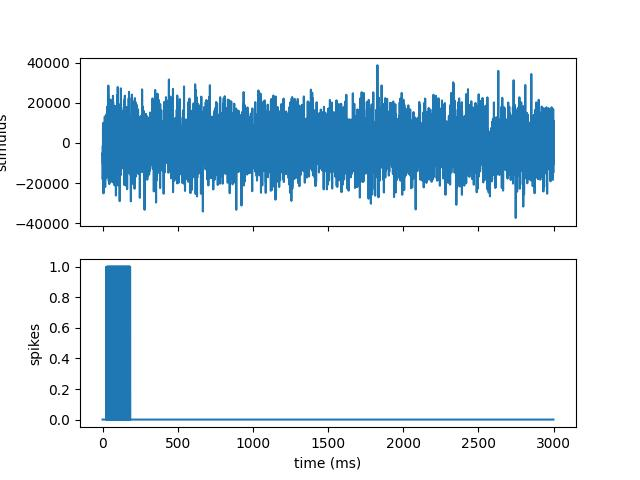
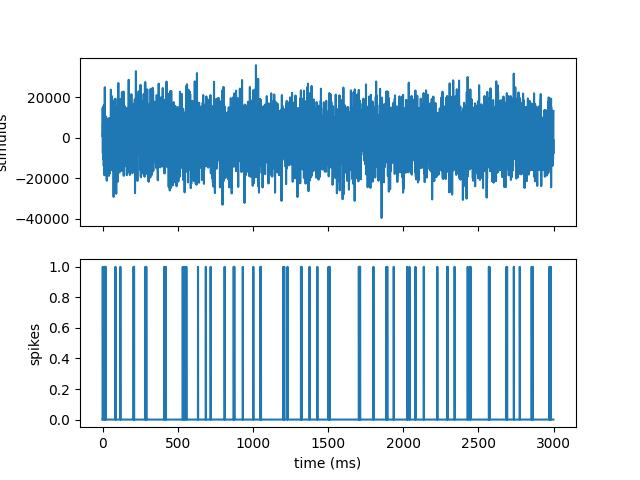
Analysis complete

diff --git a/core/utils_plotting.py b/core/utils_plotting.py
@@ -56,61 +56,57 @@ def plot_params(neurons: List[LIF]):
     Arguments:
     - neurons: List[LIF]
     """
-    fig, axs = plt.subplots(2,3,sharex=False)
+    fig, axs = plt.subplots(3,3,sharex=False)
 
     plt.tight_layout()
 
-    # axs[0, 0].hist([n.c_m for n in neurons], alpha=0.7)
-    # axs[0, 0].set_xlim([10,500])
-    # axs[0, 0].set_title('capacitance')
+    axs[0, 0].hist([n.c_m for n in neurons], alpha=0.7)
+    axs[0, 0].set_xlim([50,500])
+    axs[0, 0].set_title('capacitance')
 
-    # axs[0, 2].hist([n.g_l for n in neurons], alpha=0.7)
-    # axs[0, 2].set_xlim([1,100])
-    # axs[0, 2].set_title('conductance')
+    axs[0, 2].hist([n.g_l for n in neurons], alpha=0.7)
+    axs[0, 2].set_xlim([1,20])
+    axs[0, 2].set_title('conductance')
 
-    # axs[0, 0].hist([n.c_m for n in neurons], alpha=0.7)
-    # axs[0, 0].set_xlim([10,500])
-    # axs[0, 0].set_title('capacitance')
+    axs[0, 1].remove()
 
-    # axs[0, 2].hist([n.g_l for n in neurons], alpha=0.7)
-    # axs[0, 2].set_xlim([1,100])
-    # axs[0, 2].set_title('conductance')
+    axs[1, 0].hist([n.v_l for n in neurons], alpha=0.7)
+    axs[1, 0].set_xlim([-100,-75])
+    axs[1, 0].set_title('rest voltage')
 
-    # axs[0, 1].remove()
+    axs[1,1].remove()
 
-    # axs[1, 0].hist([n.v_l for n in neurons], alpha=0.7)
-    # axs[1, 0].set_xlim([-100,-75])
-    # axs[1, 0].set_title('rest voltage')
+    axs[1, 2].hist([n.v_th for n in neurons], alpha=0.7)
+    axs[1, 2].set_xlim([-75,20])
+    axs[1, 2].set_title('threshold')
 
-    # axs[1,1].remove()
+    axs[2, 0].hist([n.k_j[0] for n in neurons], alpha=0.7)
+    axs[2, 0].hist([n.k_j[1] for n in neurons], alpha=0.7)
+    axs[2, 0].set_xlim([1e-9, 1])
+    axs[2, 0].set_title('k_j')
 
-    # axs[1, 2].hist([n.v_th for n in neurons], alpha=0.7)
-    # axs[1, 2].set_xlim([-100,50])
-    # axs[1, 2].set_title('threshold')
+    axs[2, 1].hist([n.f_j[0] for n in neurons], alpha=0.7)
+    axs[2, 1].hist([n.f_j[1] for n in neurons], alpha=0.7)
+    axs[2, 1].set_xlim([-200, 200])
+    axs[2, 1].set_title('f_j')
 
-    axs[1, 0].hist([n.k_j[0] for n in neurons], alpha=0.7)
-    axs[1, 0].hist([n.k_j[1] for n in neurons], alpha=0.7)
-    axs[1, 0].set_xlim([1e-9, 1])
-    axs[1, 0].set_title('k_j')
-
-    axs[1, 1].hist([n.f_j[0] for n in neurons], alpha=0.7)
-    axs[1, 1].hist([n.f_j[1] for n in neurons], alpha=0.7)
-    axs[1, 1].set_xlim([-200, 200])
-    axs[1, 1].set_title('f_j')
-
-    axs[1, 2].hist([n.b_j[0] for n in neurons], alpha=0.7)
-    axs[1, 2].hist([n.b_j[1] for n in neurons], alpha=0.7)
-    axs[1, 2].set_xlim([-1,1])
-    axs[1, 2].set_title('b_j')
+    axs[2, 2].hist([n.b_j[0] for n in neurons], alpha=0.7)
+    axs[2, 2].hist([n.b_j[1] for n in neurons], alpha=0.7)
+    axs[2, 2].set_xlim([-1,1])
+    axs[2, 2].set_title('b_j')
 
 def visualize_stc(pca: PCA, dt: float):
+    """Plots the principal components computed by pca."""
     n_components = pca.n_components_
     n_features = pca.n_features_
-    explained_var = pca.explained_variance_
+    explained_var = pca.explained_variance_ratio_
 
     time = np.arange(0.0, n_features * dt, dt)
     for i in range(n_components):
-        plt.plot(time, pca.components_[i, :], label = f"PC{i}: {round(explained_var[i],2)}")
+        plt.plot(time, pca.components_[i, :], label = f"PC{i}: {round(explained_var[i],4)}")
+    plt.legend()
+    plt.ylabel('spikes')
+    plt.xlabel('time (ms)')
 
 def visualize_paramvar(neurons: List[LIF], projections):
     """
@@ -120,53 +116,53 @@ def visualize_paramvar(neurons: List[LIF], projections):
     - neurons: List[LIF]
     - projections
     """
-    fig, axs = plt.subplots(2,3,sharex=False)
+    fig, axs = plt.subplots(3,3,sharex=False)
 
     plt.tight_layout()
 
-    # axs[0, 0].scatter([n.c_m for n in neurons], projections[:,0])
-    # axs[0, 0].scatter([n.c_m for n in neurons], projections[:,1])
-    # axs[0, 0].scatter([n.c_m for n in neurons], projections[:,2])
-    # axs[0, 0].set_xlim([10,500])
-    # axs[0, 0].set_title('capacitance')
+    axs[0, 0].scatter([n.c_m for n in neurons], projections[:,0])
+    axs[0, 0].scatter([n.c_m for n in neurons], projections[:,1])
+    axs[0, 0].scatter([n.c_m for n in neurons], projections[:,2])
+    axs[0, 0].set_xlim([10,500])
+    axs[0, 0].set_title('capacitance')
 
-    # axs[0, 2].scatter([n.g_l for n in neurons], projections[:,0])
-    # axs[0, 2].scatter([n.g_l for n in neurons], projections[:,1])
-    # axs[0, 2].scatter([n.g_l for n in neurons], projections[:,2])
-    # axs[0, 2].set_xlim([1,100])
-    # axs[0, 2].set_title('conductance')
+    axs[0, 2].scatter([n.g_l for n in neurons], projections[:,0])
+    axs[0, 2].scatter([n.g_l for n in neurons], projections[:,1])
+    axs[0, 2].scatter([n.g_l for n in neurons], projections[:,2])
+    axs[0, 2].set_xlim([1,100])
+    axs[0, 2].set_title('conductance')
 
-    # axs[0, 1].remove()
+    axs[0, 1].remove()
 
-    # axs[1, 0].scatter([n.v_l for n in neurons], projections[:,0])
-    # axs[1, 0].scatter([n.v_l for n in neurons], projections[:,1])
-    # axs[1, 0].scatter([n.v_l for n in neurons], projections[:,2])
-    # axs[1, 0].set_xlim([-100,-75])
-    # axs[1, 0].set_title('rest voltage')
+    axs[1, 0].scatter([n.v_l for n in neurons], projections[:,0])
+    axs[1, 0].scatter([n.v_l for n in neurons], projections[:,1])
+    axs[1, 0].scatter([n.v_l for n in neurons], projections[:,2])
+    axs[1, 0].set_xlim([-100,-75])
+    axs[1, 0].set_title('rest voltage')
 
-    # axs[1,1].remove()
+    axs[1,1].remove()
 
-    # axs[1, 2].scatter([n.v_th for n in neurons], projections[:,0])
-    # axs[1, 2].scatter([n.v_th for n in neurons], projections[:,1])
-    # axs[1, 2].scatter([n.v_th for n in neurons], projections[:,2])
-    # axs[1, 2].set_xlim([-100,50])
-    # axs[1, 2].set_title('threshold')
+    axs[1, 2].scatter([n.v_th for n in neurons], projections[:,0])
+    axs[1, 2].scatter([n.v_th for n in neurons], projections[:,1])
+    axs[1, 2].scatter([n.v_th for n in neurons], projections[:,2])
+    axs[1, 2].set_xlim([-100,50])
+    axs[1, 2].set_title('threshold')
 
-    axs[1, 0].scatter([n.k_j[0] for n in neurons], projections[:,0])
-    axs[1, 0].scatter([n.k_j[0] for n in neurons], projections[:,1])
-    axs[1, 0].scatter([n.k_j[0] for n in neurons], projections[:,2])
-    # ax1[2, 0].hist([n.k_j[1] for n in neurons], alpha=0.7)
-    axs[1, 0].set_xlim([1e-9, 1])
-    axs[1, 0].set_title('k_j')
+    axs[2, 0].scatter([n.k_j[0] for n in neurons], projections[:,0])
+    axs[2, 0].scatter([n.k_j[0] for n in neurons], projections[:,1])
+    axs[2, 0].scatter([n.k_j[0] for n in neurons], projections[:,2])
+    # axs[2, 0].hist([n.k_j[1] for n in neurons], alpha=0.7)
+    axs[2, 0].set_xlim([1e-9, 1])
+    axs[2, 0].set_title('k_j')
 
-    axs[1, 1].scatter([n.f_j[0] for n in neurons], projections[:,0])
-    axs[1, 1].scatter([n.f_j[0] for n in neurons], projections[:,1])
-    axs[1, 1].scatter([n.f_j[0] for n in neurons], projections[:,2])
-    axs[1, 1].set_xlim([-200, 200])
-    axs[1, 1].set_title('f_j')
+    axs[2, 1].scatter([n.f_j[0] for n in neurons], projections[:,0])
+    axs[2, 1].scatter([n.f_j[0] for n in neurons], projections[:,1])
+    axs[2, 1].scatter([n.f_j[0] for n in neurons], projections[:,2])
+    axs[2, 1].set_xlim([-200, 200])
+    axs[2, 1].set_title('f_j')
 
-    axs[1, 2].scatter([n.b_j[0] for n in neurons], projections[:,0])
-    axs[1, 2].scatter([n.b_j[0] for n in neurons], projections[:,1])
-    axs[1, 2].scatter([n.b_j[0] for n in neurons], projections[:,2])
-    axs[1, 2].set_xlim([-1,1])
-    axs[1, 2].set_title('b_j')
+    axs[2, 2].scatter([n.b_j[0] for n in neurons], projections[:,0])
+    axs[2, 2].scatter([n.b_j[0] for n in neurons], projections[:,1])
+    axs[2, 2].scatter([n.b_j[0] for n in neurons], projections[:,2])
+    axs[2, 2].set_xlim([-1,1])
+    axs[2, 2].set_title('b_j')

diff --git a/core/main.py b/core/main.py
@@ -12,10 +12,10 @@ from tqdm import tqdm
 
 dt = 0.5
 time_duration = 3000
-trigger_duration = 100
+trigger_duration = 30
 k = 3
 n = 500
-k_clusters = 1
+k_clusters = 2
 
 ntrigger = int(trigger_duration / dt)
 
@@ -29,6 +29,8 @@ for i in tqdm(range(n)):
     lif = uta.gen_neuron(dt = dt)
     lifs.append(lif)
     r = uta.stim_neuron(neuron=lif, time_duration=time_duration)
+    if (sum(r.spikes[ntrigger:]) == 0):
+        r.spikes[ntrigger:] = np.ones(len(r.spikes) - ntrigger)
     responses.append(r)
     if i in representative:
         utp.visaulize_response(r)
@@ -39,14 +41,12 @@ for i in tqdm(range(n)):
         skipped += 1
         continue
 
-pca = uta.compute_pcs(k, responses, trigger_duration)
+pca, stas = uta.compute_pcs(k, responses, trigger_duration)
 
 projections = np.zeros((n, k))
 num_spikes = []
 for i in tqdm(range(n)):
     r = responses[i]
-    if (sum(r.spikes[ntrigger:]) == 0):
-        r.spikes[ntrigger:] = np.ones(len(r.spikes) - ntrigger)
     projections[i,:] = uta.project_sta(r, pca, trigger_duration)
     num_spikes.append(sum(r.spikes))
 
@@ -54,6 +54,14 @@ projections = projections / projections.max()
 clusters = uta.cluster(projections, k_clusters)
 utp.plot_clusters3d(projections, clusters)
 plt.savefig("./../images/3d-clusters.jpg")
+plt.close()
+
+time = np.arange(0, trigger_duration + dt, dt)
+plt.plot(time, np.mean(stas[clusters == 0, :], axis=0), label='C1')
+plt.plot(time, np.mean(stas[clusters == 1, :], axis=0), label='C2')
+plt.ylabel('spikes')
+plt.xlabel('time (ms)')
+plt.savefig("./../images/stas.jpg")
 plt.close()
 
 utp.plot_clusters2d(projections, clusters)

diff --git a/core/utils_analysis.py b/core/utils_analysis.py
@@ -32,11 +32,11 @@ def gen_neuron(dt: float)->LIF:
     return LIF(
         LIFParams(
             dt=dt,
-            # c_m = random.uniform(10, 500),
-            # g_l=random.uniform(1, 100),
-            # v_l = random.uniform(-100, -75),
-            # v_th = random.uniform(-100, 20),
-            k_j = np.random.uniform(1e-9, 100, 2),
+            c_m = random.uniform(50, 500),
+            g_l=random.uniform(1, 20),
+            v_l = random.uniform(-100, -75),
+            v_th = random.uniform(-75, 20),
+            k_j = np.random.uniform(1e-9, 1, 2),
             f_j = np.random.uniform(-200, 200, 2),
             b_j = np.random.uniform(-1, 1, 2)
         )
@@ -108,17 +108,21 @@ def compute_pcs(k: int, responses: List[Response], trigger_duration: float):
 
     Returns:
     a fit PCA object from sklearn
+    and the list of STAs
     """
     # Compute STs
     sts = []
     for response in responses:
-        sts.extend(compute_sts(response, trigger_duration))
+        sts_r = compute_sts(response, trigger_duration)
+        sts_array = np.stack([r.stimulus for r in sts_r])
+        sts.append(np.mean(sts_array, axis=0))
+        # sts.extend(np.mean(compute_sts(response, trigger_duration), axis=0))
     
     # Compute pca
     pca = PCA(n_components=k)
-    sts_array = np.array([r.stimulus for r in sts])
-    pca.fit(sts_array)
-    return pca
+    # sts_array = np.array([r.stimulus for r in sts])
+    pca.fit(np.stack(sts).reshape((len(responses), -1)))
+    return pca, np.stack(sts)
 
 def project_sta(response: Response, pca: PCA, trigger_duration: float):
     """
